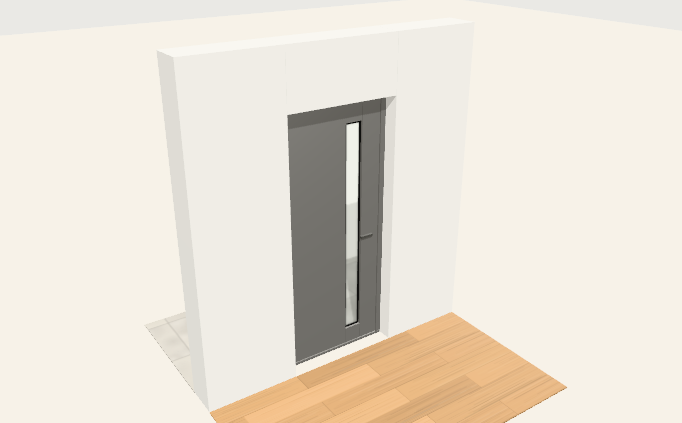
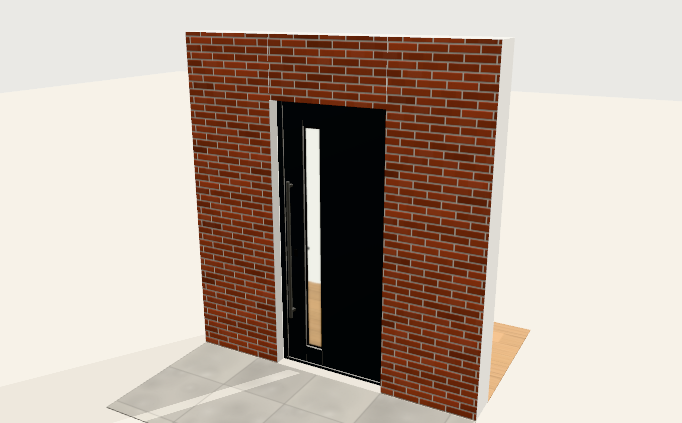
Bouw: de 3D van een raam, deur of garagepoort begint van buiten (doorloop B6)
Van binnen zag je de buitenkleur, de cassettes en de screens niet. Een
nieuwe positie in de 3D begint nu op Buiten (een vast model blijft Schuin),
en de knop van het standpunt staat aangeduid; zelf draaien haalt de
aanduiding weg. Bewust veranderd beeld: bouw-raam (de voordeur van de
voorbeeldwoning, nu van buiten); alle andere bouwbeelden 0,00 %.

Claude-Session: https://claude.ai/code/session_01PczewFp9M8BS44vqTSpk6u

diff --git a/packages/bouw-web/src/positie-ui.ts b/packages/bouw-web/src/positie-ui.ts
@@ -800,10 +800,30 @@ function toon3D(p: Positie, r: ConfiguratieResultaat) {
   const scene = gebouw || vast ? gebouwKader(s) : passendKader(s);
   const metMaten: Scene3DMetMaten = lijnen?.length ? { ...scene, maatlijnen: lijnen } : scene;
   viewer.toon(metMaten);
-  if (vast && in3D !== p.id) viewer.standpunt('schuin');
+  // Een andere positie: een vast model schuin van boven; een raam, deur of garagepoort van buiten (doorloop B6: daar zie je
+  // de buitenkleur, de cassettes en de screens; van binnen veranderde er bij die keuzes niets). De knop staat aangeduid.
+  if (in3D !== p.id) {
+    if (vast) zetStandpunt('schuin');
+    else if (!gebouw) zetStandpunt('achter');
+    else zetStandpunt(undefined, false);
+  }
   in3D = p.id;
   // Alleen een gewoon beeld (afgewerkt, zonder maten) gaat naar het overzicht.
   getekend = vast && bouwWeergave === 'afgewerkt' && !lijnen?.length ? `${p.id}:${JSON.stringify(p.keuzes)}` : '';
+}
+
+/**
+ * Het standpunt van de 3D (doorloop B6): de kijker erheen zetten en de knop ervan aanduiden, zodat je weet of je van binnen
+ * of van buiten kijkt. `draai: false` duidt alleen aan (of niets). Draait de verkoper zelf aan het beeld, dan staat er geen
+ * knop meer aangeduid.
+ */
+let standpuntNu: Standpunt | undefined;
+function zetStandpunt(s: Standpunt | undefined, draai = true) {
+  standpuntNu = s;
+  if (s && draai) viewer?.standpunt(s);
+  // Een raam heeft zijn eigen knoppen (Binnen, Buiten …), een gebouw de zijne (Schuin, Voor …): de verborgen tellen niet.
+  for (const b of document.querySelectorAll<HTMLButtonElement>('[data-p-standpunt]')) b.setAttribute('aria-pressed', String(b.dataset.pStandpunt === s));
+  for (const b of document.querySelectorAll<HTMLButtonElement>('[data-p-zicht]')) b.setAttribute('aria-pressed', String(b.dataset.pZicht === s));
 }
 
 /** Zet de weergave (vooraanzicht of 3D) zonder te tekenen; maakt de 3D bij de eerste keer. */
@@ -888,8 +908,18 @@ export function startPositie(nav: { naarPlan: (openingId: string) => void; naarO
   naarWoning3D = nav.naarWoning3D;
   $('#p-vrij').addEventListener('click', aanbouwVrijTekenen);
   for (const b of document.querySelectorAll<HTMLButtonElement>('[data-p-weergave]')) b.addEventListener('click', () => toonWeergave(b.dataset.pWeergave as 'voor' | '3d'));
-  for (const b of document.querySelectorAll<HTMLButtonElement>('[data-p-standpunt]')) b.addEventListener('click', () => viewer?.standpunt(b.dataset.pStandpunt as 'schuin'));
-  for (const b of document.querySelectorAll<HTMLButtonElement>('[data-p-zicht]')) b.addEventListener('click', () => viewer?.standpunt(b.dataset.pZicht as Standpunt));
+  for (const b of document.querySelectorAll<HTMLButtonElement>('[data-p-standpunt]')) b.addEventListener('click', () => zetStandpunt(b.dataset.pStandpunt as Standpunt));
+  for (const b of document.querySelectorAll<HTMLButtonElement>('[data-p-zicht]')) b.addEventListener('click', () => zetStandpunt(b.dataset.pZicht as Standpunt));
+  // Zelf draaien (slepen of de pijltjes): dan kijk je niet meer vanuit een vast standpunt, en staat er geen knop meer aangeduid.
+  const vak3D = $('#p-3d');
+  let begin: [number, number] | undefined;
+  vak3D.addEventListener('pointerdown', (e) => { begin = [e.clientX, e.clientY]; });
+  vak3D.addEventListener('pointermove', (e) => {
+    if (!begin || !e.buttons || !standpuntNu) return;
+    if (Math.hypot(e.clientX - begin[0], e.clientY - begin[1]) > 12) zetStandpunt(undefined, false);
+  });
+  vak3D.addEventListener('pointerup', () => { begin = undefined; });
+  vak3D.addEventListener('keydown', (e) => { if (standpuntNu && /^Arrow/.test(e.key)) zetStandpunt(undefined, false); });
   for (const b of document.querySelectorAll<HTMLButtonElement>('[data-p-bouw]')) {
     b.addEventListener('click', () => {
       bouwWeergave = b.dataset.pBouw === 'constructie' ? 'constructie' : 'afgewerkt';

diff --git a/packages/bouw-web/src/index.html b/packages/bouw-web/src/index.html
@@ -851,6 +851,8 @@ label.schakelaar.schakelaar-groot { min-height: 44px; }
   .positieraster > .resultaat > #p-voorkaart:has(#p-3d:not([hidden])) { position: sticky; top: 0; z-index: 6; box-shadow: 0 10px 16px -10px rgba(0, 0, 0, .3); }
   #p-voorkaart:has(#p-3d:not([hidden])) .knoppenrij { margin-top: 6px; gap: 6px; }
 }
+/* B6: de knop van het standpunt waarin je kijkt (Buiten bij een raam, deur of poort; Schuin bij een vast model). */
+#p-3d-knoppen button[aria-pressed="true"] { background: var(--accent); border-color: var(--accent); color: var(--vlak); }
 </style>
 </head>
 <body>
